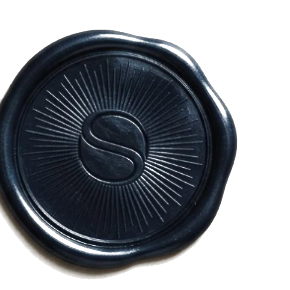
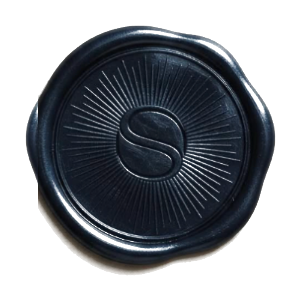
fix(quick-260724-38l): repair success-state wax seal
- center the seal independently on the envelope flap junction
- preserve one transform-safe drop entrance and isolate share controls
- repair transparent wax artwork and add responsive visual evidence

diff --git a/src/index.css b/src/index.css
@@ -124,9 +124,9 @@
 }
 
 @keyframes waxDrop {
-  0%   { transform: translateY(-60px) scale(0.6) rotate(-18deg); opacity: 0; }
-  55%  { transform: translateY(50px) scale(1.1) rotate(-3deg); opacity: 1; }
-  100% { transform: translateY(40px) scale(1) rotate(0deg); opacity: 1; }
+  0%   { transform: translateY(-100px) scale(0.6) rotate(-18deg); opacity: 0; }
+  55%  { transform: translateY(10px) scale(1.1) rotate(-3deg); opacity: 1; }
+  100% { transform: translateY(0) scale(1) rotate(0deg); opacity: 1; }
 }
 
 /* ─── Global CSS rules ───────────────────────────────────────────────────── */
@@ -1046,7 +1046,6 @@ textarea.fl-textarea {
 .fl-pad-success .fl-pad-bg { display: none; }
 .fl-env-back {
   position: relative; width: 100%; height: 440px;
-  display: flex; align-items: center; justify-content: center;
 }
 .fl-env-flap {
   position: absolute; inset: 0;
@@ -1054,11 +1053,27 @@ textarea.fl-textarea {
   pointer-events: none;
 }
 .fl-wax-seal {
-  position: relative; z-index: 2;
-  transform: translateY(40px);
+  position: absolute; z-index: 2;
+  left: 50%; top: 270px;
+  transform: translate(-50%, -50%);
+}
+.fl-wax-seal img {
+  display: block;
   animation: waxDrop 0.95s cubic-bezier(0.34, 1.56, 0.64, 1) both;
 }
-.fl-wax-seal img { display: block; }
+.fl-env-back > .share-row {
+  position: absolute;
+  top: 66px; left: 0; right: 0;
+  z-index: 2;
+  margin-top: 0;
+}
+.fl-env-back > .share-row--dark .share-btn {
+  border-color: rgba(0,0,0,0.18);
+  color: rgba(0,0,0,0.65);
+}
+.fl-env-back > .share-row--dark .share-btn:hover {
+  border-color: rgba(0,0,0,0.48);
+}
 .fl-env-caption {
   position: absolute; left: 0; right: 0; bottom: 28px;
   text-align: center; z-index: 2;
